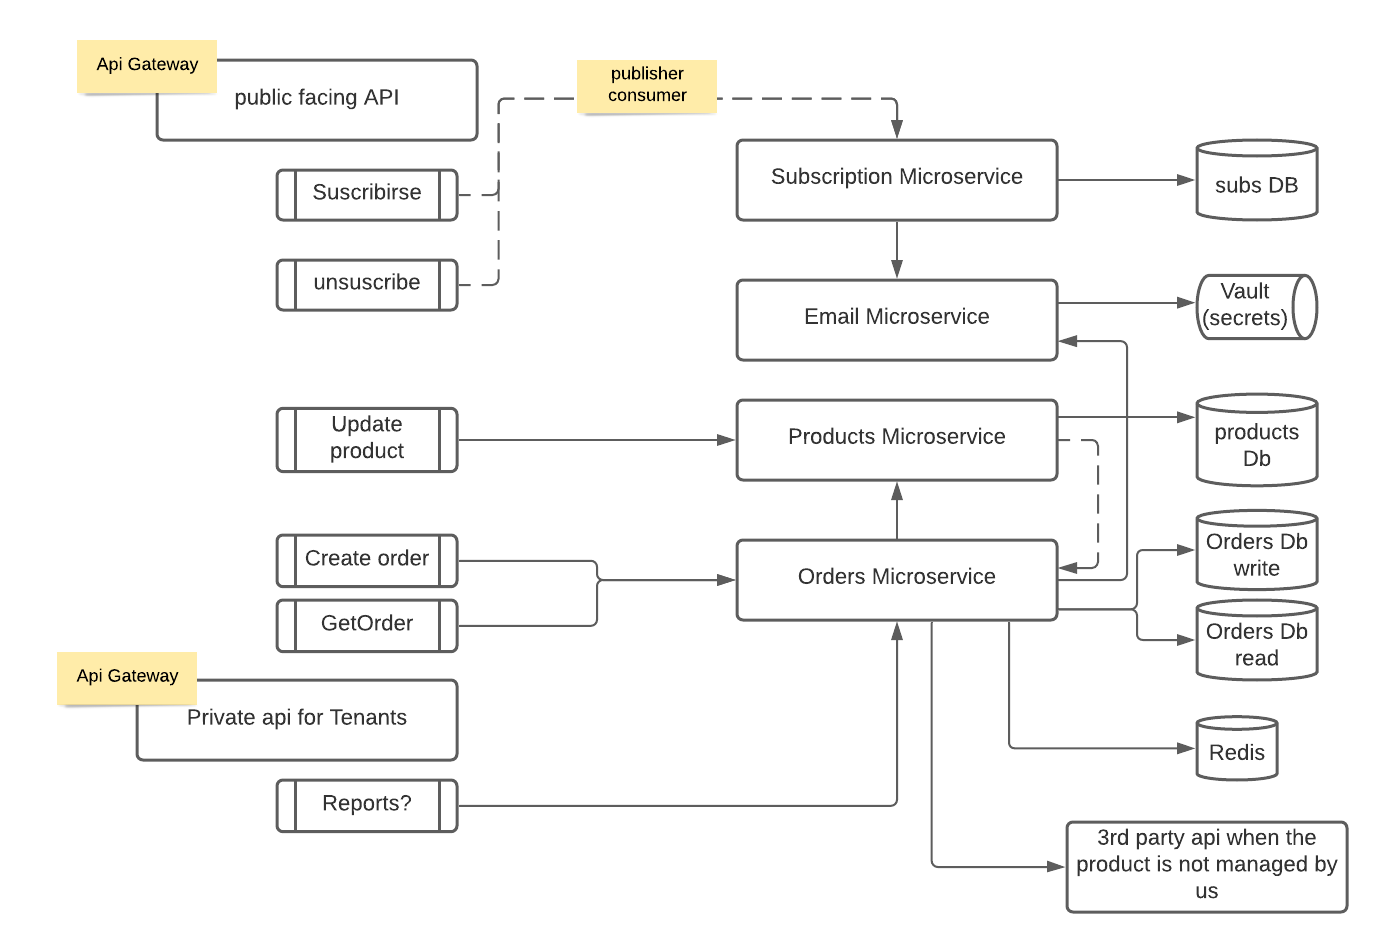
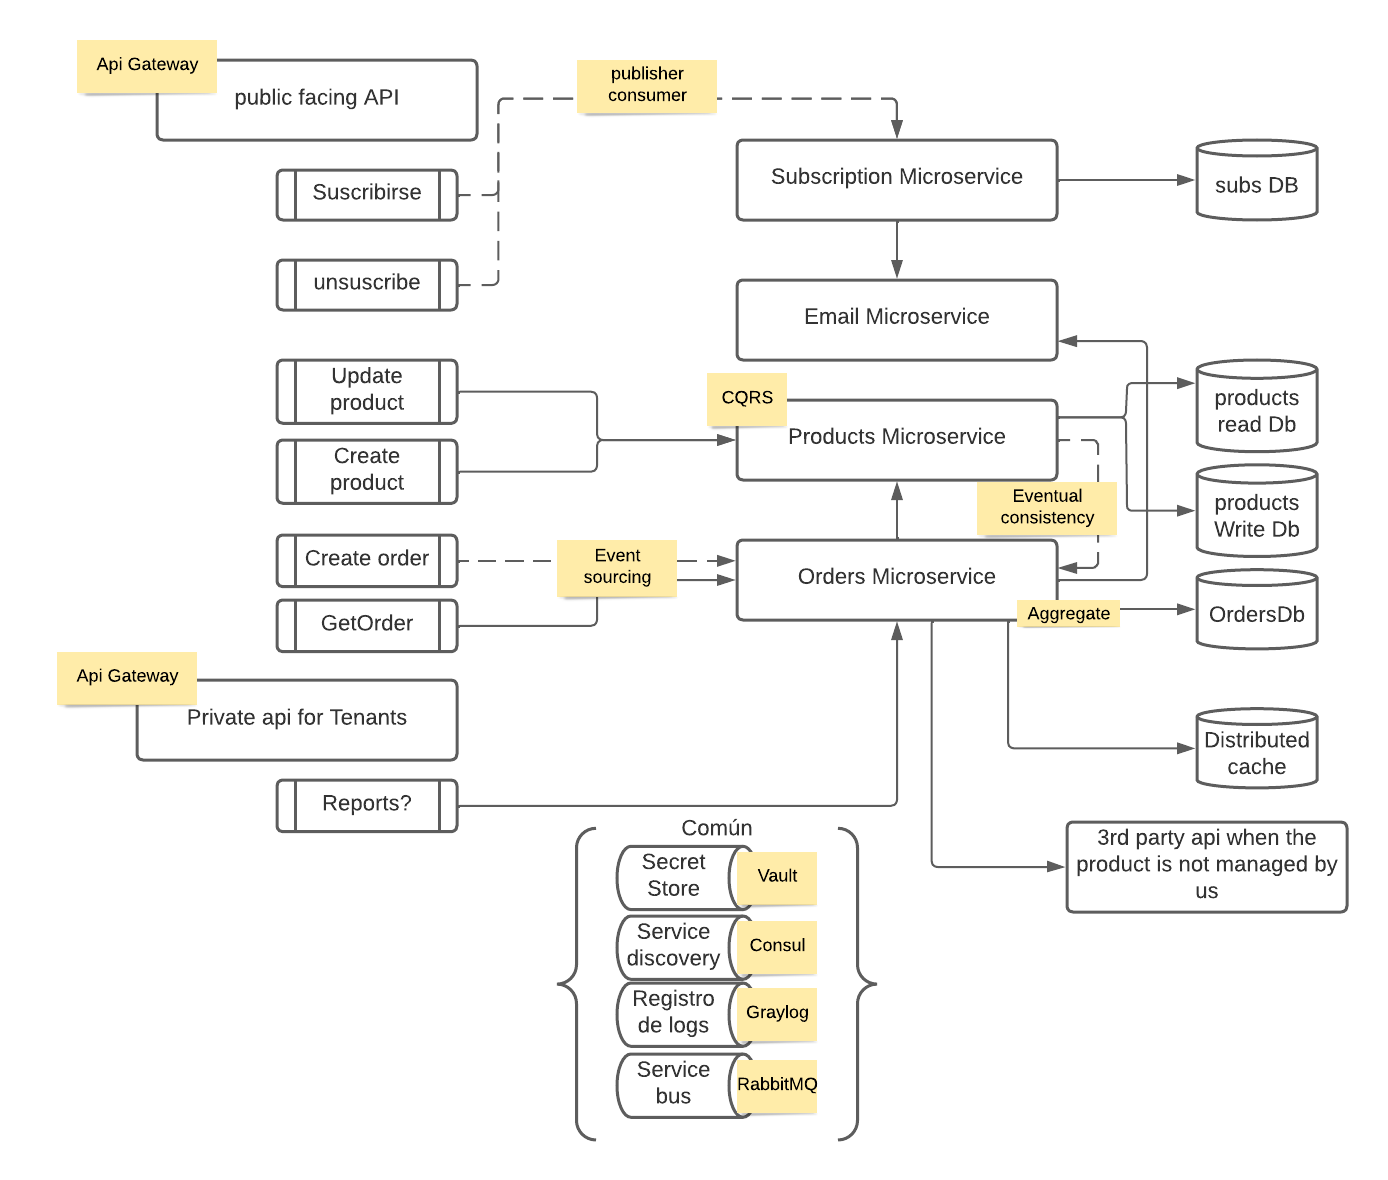
add eventual consistency

diff --git a/tools/mongodb/mongo-init.js b/tools/mongodb/mongo-init.js
@@ -17,3 +17,5 @@ db.Products.insertOne({"Id": 3, "Details": {"Name": "Tercer", "Description": "Te
 //This is called like this because it is the same database.
 //on nomral circumstances (outside of local development) this will be in a separated database and just called "Events"
 db.createCollection("EventsOrders");
+//Same, on normal cirmumstances this will be "Products".
+db.createCollection("ProductName");

diff --git a/src/Services/Orders/Distribt.Services.Orders.BusinessLogic/Services/External/ProductNameService.cs b/src/Services/Orders/Distribt.Services.Orders.BusinessLogic/Services/External/ProductNameService.cs
@@ -1,0 +1,79 @@
+using System.Net.Http.Json;
+using Distribt.Services.Orders.BusinessLogic.Data.External;
+using Distribt.Services.Products.Dtos;
+using Distribt.Shared.Discovery;
+using Microsoft.Extensions.Caching.Distributed;
+
+namespace Distribt.Services.Orders.BusinessLogic.Services.External;
+
+public interface IProductNameService
+{
+    Task<string> GetProductName(int id, CancellationToken cancellationToken = default(CancellationToken));
+    Task SetProductName(int id, string name, CancellationToken cancellationToken = default(CancellationToken));
+}
+
+//TODO: #25
+public class ProductNameService : IProductNameService
+{
+    private readonly IProductRepository _productRepository;
+    private readonly IDistributedCache _cache;
+    private readonly IHttpClientFactory _httpClientFactory;
+    private readonly IServiceDiscovery _discovery;
+
+    public ProductNameService(IProductRepository productRepository, IDistributedCache cache,
+        IHttpClientFactory httpClientFactory, IServiceDiscovery discovery)
+    {
+        _productRepository = productRepository;
+        _cache = cache;
+        _httpClientFactory = httpClientFactory;
+        _discovery = discovery;
+    }
+
+
+    public async Task<string> GetProductName(int id, CancellationToken cancellationToken = default(CancellationToken))
+    {
+        string value = await _cache.GetStringAsync($"ORDERS-PRODUCT::{id}", cancellationToken);
+        if (value!=null)
+        {
+            return value;
+        }
+        string productName = await RetrieveProductName(id, cancellationToken);
+
+        return productName;
+    }
+
+    public async Task SetProductName(int id, string name,
+        CancellationToken cancellationToken = default(CancellationToken))
+    {
+        await _productRepository.UpsertProductName(id, name, cancellationToken);
+        await _cache.SetStringAsync($"ORDERS-PRODUCT::{id}", name, cancellationToken);
+    }
+   
+    
+    private async Task<string> RetrieveProductName(int id, CancellationToken cancellationToken)
+    {
+        string? productName = await _productRepository.GetProductName(id, cancellationToken);
+
+        if (productName == null)
+        {
+            FullProductResponse product = await GetProduct(id, cancellationToken);
+            await SetProductName(id, product.Details.Name, cancellationToken);
+            productName = product.Details.Name;
+        }
+
+        return productName;
+    }
+    
+    private async Task<FullProductResponse> GetProduct(int productId, CancellationToken cancellationToken = default(CancellationToken))
+    {
+        //TODO: abstract out all the HTTP calls to other distribt microservices #26
+        HttpClient client = _httpClientFactory.CreateClient();
+        string productsReadApi =
+            await _discovery.GetFullAddress(DiscoveryServices.Microservices.ProductsApi.ApiRead, cancellationToken);
+        client.BaseAddress = new Uri(productsReadApi);
+
+        //TODO: replace exception
+        return await client.GetFromJsonAsync<FullProductResponse>($"product/{productId}", cancellationToken) ?? 
+               throw  new ArgumentException("Product does not exist");
+    }
+}

diff --git a/src/Services/Orders/Distribt.Services.Orders/Services/CreateOrderService.cs b/src/Services/Orders/Distribt.Services.Orders/Services/CreateOrderService.cs
@@ -1,28 +1,35 @@
 using Distribt.Services.Orders.Aggregates;
+using Distribt.Services.Orders.BusinessLogic.Services.External;
 using Distribt.Services.Orders.Data;
 using Distribt.Services.Orders.Dto;
 using Distribt.Services.Orders.Events;
+using Distribt.Shared.Setup.Extensions;
 
 namespace Distribt.Services.Orders.Services;
 
 public interface ICreateOrderService
 {
-    Task<Guid> Execute(CreateOrderRequest createOrder, CancellationToken cancellationToken = default(CancellationToken));
+    Task<Guid> Execute(CreateOrderRequest createOrder,
+        CancellationToken cancellationToken = default(CancellationToken));
 }
 
 public class CreateOrderService : ICreateOrderService
 {
     private readonly IOrderRepository _orderRepository;
     private readonly IDomainMessagePublisher _domainMessagePublisher;
+    private readonly IProductNameService _productNameService;
 
-    public CreateOrderService(IOrderRepository orderRepository, IDomainMessagePublisher domainMessagePublisher)
+    public CreateOrderService(IOrderRepository orderRepository, IDomainMessagePublisher domainMessagePublisher,
+        IProductNameService productNameService)
     {
         _orderRepository = orderRepository;
         _domainMessagePublisher = domainMessagePublisher;
+        _productNameService = productNameService;
     }
 
 
-    public async Task<Guid> Execute(CreateOrderRequest createOrder, CancellationToken cancellationToken = default(CancellationToken))
+    public async Task<Guid> Execute(CreateOrderRequest createOrder,
+        CancellationToken cancellationToken = default(CancellationToken))
     {
         Guid createdOrderId = Guid.NewGuid();
 
@@ -36,11 +43,13 @@ public class CreateOrderService : ICreateOrderService
 
         await _orderRepository.Save(orderDetails, cancellationToken);
 
-        OrderResponse orderResponse = new OrderResponse(orderDetails.Id, orderDetails.Status.ToString(), orderDetails.Delivery, orderDetails.PaymentInformation,
-            orderDetails.Products
-                .Select(p => new ProductQuantityName(p.ProductId, p.Quantity, "fakename"))
-                .ToList());//the name is temporal, it will be completed in the next episodes.
-        
+        var products = await orderDetails.Products
+            .SelectAsync(async p => new ProductQuantityName(p.ProductId, p.Quantity,
+                await _productNameService.GetProductName(p.ProductId, cancellationToken)));
+
+        OrderResponse orderResponse = new OrderResponse(orderDetails.Id, orderDetails.Status.ToString(),
+            orderDetails.Delivery, orderDetails.PaymentInformation, products.ToList());
+
         await _domainMessagePublisher.Publish(orderResponse, routingKey: "order", cancellationToken: cancellationToken);
         return createdOrderId;
     }

diff --git a/src/Services/Orders/Distribt.Services.Orders.BusinessLogic/Data/External/ProductRepository.cs b/src/Services/Orders/Distribt.Services.Orders.BusinessLogic/Data/External/ProductRepository.cs
@@ -1,0 +1,68 @@
+using Distribt.Shared.Databases.MongoDb;
+using MongoDB.Bson;
+using MongoDB.Bson.Serialization.Attributes;
+using MongoDB.Driver;
+
+namespace Distribt.Services.Orders.BusinessLogic.Data.External;
+
+public interface IProductRepository
+{
+    Task<string?> GetProductName(int id, CancellationToken cancellationToken = default(CancellationToken));
+
+    Task<bool> UpsertProductName(int id, string name, CancellationToken cancellationToken = default(CancellationToken));
+}
+
+public class ProductRepository : IProductRepository
+{
+    private readonly MongoClient _mongoClient;
+
+    public ProductRepository(IMongoDbConnectionProvider mongoDbConnectionProvider)
+    {
+        _mongoClient = new MongoClient(mongoDbConnectionProvider.GetMongoUrl());
+    }
+
+
+    public async Task<string?> GetProductName(int id, CancellationToken cancellationToken = default(CancellationToken))
+    {
+        IMongoDatabase db = _mongoClient.GetDatabase("distribt");
+
+        IMongoCollection<ProductNameEntity>
+            collection = db.GetCollection<ProductNameEntity>("ProductName");
+        FilterDefinition<ProductNameEntity> filter = Builders<ProductNameEntity>.Filter.Eq("Id", id);
+        ProductNameEntity entity = await collection.Find(filter).FirstOrDefaultAsync(cancellationToken);
+        return entity?.Name;
+    }
+
+    public async Task<bool> UpsertProductName(int id, string name,
+        CancellationToken cancellationToken = default(CancellationToken))
+    {
+        IMongoDatabase db = _mongoClient.GetDatabase("distribt");
+        IMongoCollection<ProductNameEntity>
+            collection = db.GetCollection<ProductNameEntity>("ProductName");
+
+        FilterDefinition<ProductNameEntity> filter = Builders<ProductNameEntity>.Filter.Eq("Id", id);
+
+        ProductNameEntity entity =
+            await collection.Find(filter).FirstOrDefaultAsync(cancellationToken) 
+            ?? new ProductNameEntity();
+
+        entity.Id ??= id;
+        entity.Name = name;
+
+        var replaceOne = await collection.ReplaceOneAsync(filter,
+            entity,
+            new ReplaceOptions()
+            {
+                IsUpsert = true
+            }, cancellationToken);
+
+        return replaceOne.IsAcknowledged;
+    }
+
+    private class ProductNameEntity
+    {
+        [BsonId] public ObjectId _Id { get; set; }
+        public int? Id { get; set; }
+        public string? Name { get; set; }
+    }
+}

diff --git a/src/Services/Orders/Distribt.Services.Orders/Services/GetOrderService.cs b/src/Services/Orders/Distribt.Services.Orders/Services/GetOrderService.cs
@@ -1,6 +1,8 @@
 using Distribt.Services.Orders.Aggregates;
+using Distribt.Services.Orders.BusinessLogic.Services.External;
 using Distribt.Services.Orders.Data;
 using Distribt.Services.Orders.Dto;
+using Distribt.Shared.Setup.Extensions;
 
 namespace Distribt.Services.Orders.Services;
 
@@ -12,10 +14,12 @@ public interface IGetOrderService
 public class GetOrderService : IGetOrderService
 {
     private readonly IOrderRepository _orderRepository;
+    private readonly IProductNameService _productNameService;
 
-    public GetOrderService(IOrderRepository orderRepository)
+    public GetOrderService(IOrderRepository orderRepository, IProductNameService productNameService)
     {
         _orderRepository = orderRepository;
+        _productNameService = productNameService;
     }
 
 
@@ -24,9 +28,13 @@ public class GetOrderService : IGetOrderService
     {
         OrderDetails orderDetails = await _orderRepository.GetById(orderId, cancellationToken);
         //on a real scenario this implementation will be much bigger.
-        return new OrderResponse(orderDetails.Id, orderDetails.Status.ToString(), orderDetails.Delivery, orderDetails.PaymentInformation,
-            orderDetails.Products
-                .Select(p => new ProductQuantityName(p.ProductId, p.Quantity, "fakeNAme"))
-                .ToList());
+        
+        //SelectAsync is a custom method, go to the source code to check it out 
+        var products = await orderDetails.Products
+            .SelectAsync(async p => new ProductQuantityName(p.ProductId, p.Quantity,
+                await _productNameService.GetProductName(p.ProductId, cancellationToken)));
+        
+        return new OrderResponse(orderDetails.Id, orderDetails.Status.ToString(), orderDetails.Delivery,
+            orderDetails.PaymentInformation, products.ToList());
     }
 }

diff --git a/src/Shared/Distribt.Shared.Setup/Extensions/LinqExtensions.cs b/src/Shared/Distribt.Shared.Setup/Extensions/LinqExtensions.cs
@@ -1,0 +1,30 @@
+namespace Distribt.Shared.Setup.Extensions;
+
+public static class LinqExtensions
+{
+    //Source: https://stackoverflow.com/a/51964200/2320094
+    public static async Task<IEnumerable<TResult>> SelectAsync<TSource, TResult>(this IEnumerable<TSource> source,
+        Func<TSource, Task<TResult>> method, int concurrency = int.MaxValue)
+    {
+        var semaphore = new SemaphoreSlim(concurrency);
+        try
+        {
+            return await Task.WhenAll(source.Select(async s =>
+            {
+                try
+                {
+                    await semaphore.WaitAsync();
+                    return await method(s);
+                }
+                finally
+                {
+                    semaphore.Release();
+                }
+            }));
+        }
+        finally
+        {
+            semaphore.Dispose();
+        }
+    }
+}

diff --git a/src/Services/Orders/Distribt.Services.Orders.BusinessLogic/OrdersBusinessLogicDependencyInjection.cs b/src/Services/Orders/Distribt.Services.Orders.BusinessLogic/OrdersBusinessLogicDependencyInjection.cs
@@ -1,0 +1,21 @@
+using Distribt.Services.Orders.BusinessLogic.Data.External;
+using Distribt.Services.Orders.BusinessLogic.Services.External;
+using Distribt.Shared.Setup.Databases;
+using Microsoft.Extensions.DependencyInjection;
+
+namespace Distribt.Services.Orders.BusinessLogic;
+
+public static class OrdersBusinessLogicDependencyInjection
+{
+    public static void AddProductService(this IServiceCollection serviceCollection)
+    {
+        serviceCollection.AddDistribtMongoDbConnectionProvider();
+        serviceCollection.AddScoped<IProductRepository, ProductRepository>();
+        serviceCollection.AddScoped<IProductNameService, ProductNameService>();
+        serviceCollection.AddHttpClient();
+        //For now we do not need redis, as is only for local, in prod I recommend redis.
+        serviceCollection.AddDistributedMemoryCache();
+    }
+    
+    
+}

diff --git a/src/Services/Orders/Distribt.Services.Orders.Consumer/Handler/ProductModifierHandler.cs b/src/Services/Orders/Distribt.Services.Orders.Consumer/Handler/ProductModifierHandler.cs
@@ -1,0 +1,19 @@
+using Distribt.Services.Orders.BusinessLogic.Services.External;
+using Distribt.Services.Products.Dtos;
+
+namespace Distribt.Services.Orders.Consumer.Handler;
+
+public class ProductModifierHandler : IIntegrationMessageHandler<ProductUpdated>
+{
+    private readonly IProductNameService _productNameService;
+
+    public ProductModifierHandler(IProductNameService productNameService)
+    {
+        _productNameService = productNameService;
+    }
+
+    public async Task Handle(IntegrationMessage<ProductUpdated> message, CancellationToken cancelToken = default(CancellationToken))
+    {
+        await _productNameService.SetProductName(message.Content.ProductId, message.Content.Details.Name, cancelToken);
+    }
+}

diff --git a/src/Services/Orders/Distribt.Services.Orders.Consumer/Program.cs b/src/Services/Orders/Distribt.Services.Orders.Consumer/Program.cs
@@ -1,9 +1,13 @@
+using Distribt.Services.Orders.BusinessLogic;
 using Distribt.Services.Orders.Consumer.Handler;
 
-WebApplication app = DefaultDistribtWebApplication.Create(args, x =>
+WebApplication app = DefaultDistribtWebApplication.Create(args, builder =>
 {
-    x.Services.AddHandlersInAssembly<OrderCreatedHandler>();
-    x.Services.AddServiceBusDomainConsumer(x.Configuration);
+    builder.Services.AddProductService();
+
+    builder.Services.AddHandlersInAssembly<OrderCreatedHandler>();
+    builder.Services.AddServiceBusDomainConsumer(builder.Configuration);
+    builder.Services.AddServiceBusIntegrationConsumer(builder.Configuration);
 });
 
 

diff --git a/src/Services/Orders/Distribt.Services.Orders/Program.cs b/src/Services/Orders/Distribt.Services.Orders/Program.cs
@@ -1,4 +1,5 @@
 using Distribt.Services.Orders.Aggregates;
+using Distribt.Services.Orders.BusinessLogic;
 using Distribt.Services.Orders.Data;
 using Distribt.Services.Orders.Services;
 
@@ -14,6 +15,7 @@ WebApplication app = DefaultDistribtWebApplication.Create(args, webappBuilder =>
     webappBuilder.Services.AddScoped<IOrderPaidService, OrderPaidService>();
     webappBuilder.Services.AddScoped<IOrderDispatchedService, OrderDispatchedService>();
     webappBuilder.Services.AddScoped<IOrderDeliveredService, OrderDeliveredService>();
+    webappBuilder.Services.AddProductService();
 });
 
 

diff --git a/src/Services/Products/Distribt.Services.Products.BusinessLogic/DataAccess/ProductsReadStore.cs b/src/Services/Products/Distribt.Services.Products.BusinessLogic/DataAccess/ProductsReadStore.cs
@@ -42,7 +42,9 @@ public class ProductsReadStore : IProductsReadStore
         FilterDefinition<FullProductResponseEntity> filter = Builders<FullProductResponseEntity>.Filter.Eq("Id", id);
 
         FullProductResponseEntity entity =
-            await collection.Find(filter).SingleOrDefaultAsync(cancellationToken: cancellationToken);
+            await collection.Find(filter).FirstOrDefaultAsync(cancellationToken)
+            ?? new FullProductResponseEntity();
+        
         entity.Id ??= id;
         entity.Details = details;
 

diff --git a/README.md b/README.md
@@ -37,7 +37,8 @@ Hasta ahora hemos visto las siguientes funcionalidades:
 * [Registro de servicios](https://www.netmentor.es/entrada/service-registry-discovery-consul) con Consul (service discovery / Service registry)
 * [Sistema de logs](https://www.netmentor.es/entrada/servicio-logs-graylog) con GrayLog y SeriLog.
 * [CQRS](https://www.netmentor.es/entrada/patron-cqrs-explicado-10-minutos) para separar lecturas de escrituras.
-* [Event Sourcing](https://www.netmentor.es/entrada/event-sourcing-explicado-facil) juto a MongoDb para almacenar los eventos.
+* [Event Sourcing](https://www.netmentor.es/entrada/event-sourcing-explicado-facil) junto a MongoDb para almacenar los eventos.
+* [Eventual Consistency](https://www.netmentor.es/entrada/consistencia-eventual-microservicios) usando comunicación asíncrona para sincronizar los diferentes microservicios
 * y mucho más (en construcción)
 
 
